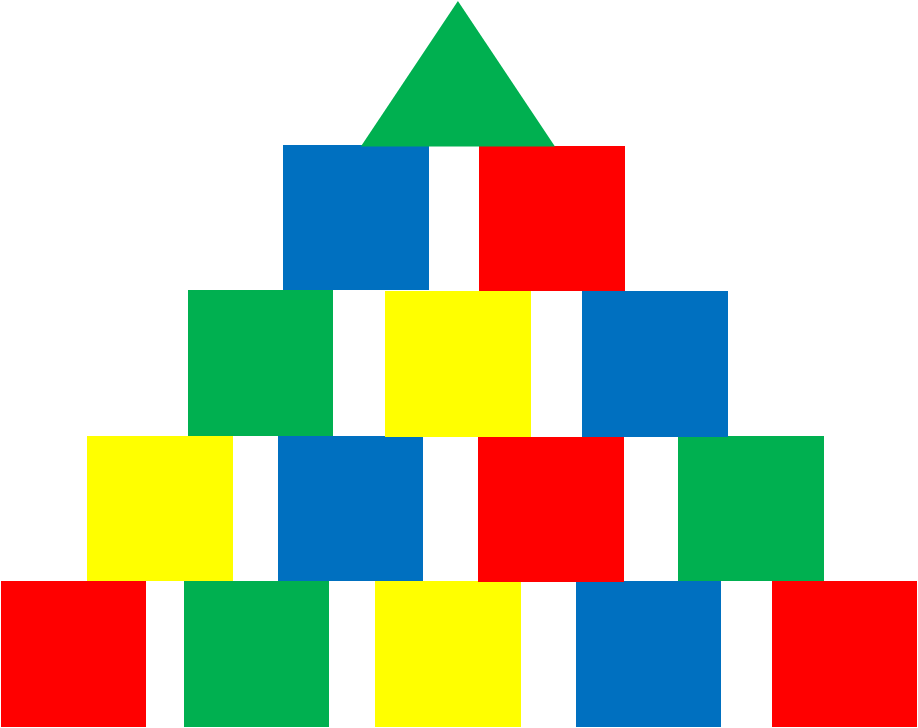
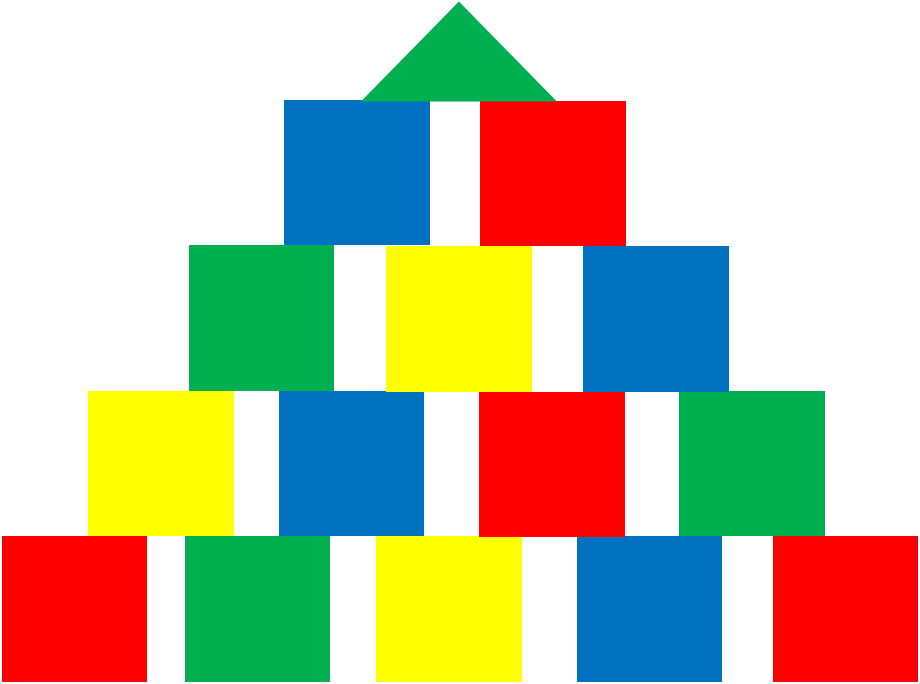
branch for selecting triangles

diff --git a/src/moving/src/move_arm.py b/src/moving/src/move_arm.py
@@ -131,16 +131,16 @@ class move_arm_node:
         final_list=flattened_blocks
 
         #pose_list,shape_list,color_list
-        poses_colors_shape = create_poses_colors_shape_list(final_list)
+        poses_colors_shape_config = create_poses_colors_shape_list(final_list)
         plot_castle_structure(final_list)
         # rospy.logerr(poses_colors_shape)
         #  pose_list, shape_list, color_list
-        return poses_colors_shape
+        return poses_colors_shape_config
 
     
     def execute_all(self):
     # Use from_blue_print2 to get poses, shapes, and colors
-        self.poses_shapes_colors = self.from_blue_print()
+        self.poses_shapes_colors_config = self.from_blue_print()
         rospy.loginfo('Entering main loop...')
 
         # Prepare the robot arm and gripper
@@ -148,8 +148,8 @@ class move_arm_node:
         self.drop()
 
     # Iterate over the list of poses, shapes, and colors
-        for item in self.poses_shapes_colors:
-            pose, shape, color, _ = item  # Unpack the tuple
+        for item in self.poses_shapes_colors_config:
+            pose, shape, color, config = item  # Unpack the tuple
 
             grabbed = False
             while not grabbed:
@@ -157,13 +157,37 @@ class move_arm_node:
                 ################################### 
                 target_pose = self.look_around(color=color, shape=shape)
                 self.drop()
-                self.pickup_from_above(target_pose)
+                self.pickup_from_above(target_pose) #picks up the object and returns to base position
                 # rospy.sleep(.1)
 
                 # if grabbed, return True, then exit while loop to execute drop_bloc
                 grabbed = self.check_closure()
                 # rospy.sleep(.1)
                 ##################################
+            
+            # We have to perform these extra steps for objects of "extra" configuration
+            # "extra" includes triangular objects and rectangular objects that are placed vertically
+            # The reason is that the camera sees the object from top view, while blueprint sees it from the front view
+            # These extra steps allow the user to adjust the object manually to be received by the amr properly.
+            
+            if config == 'extra':
+                self.base_position() #Just for safety start at base position
+                self.base_ground_position() #Lower the gripper to where the object needs to be dropped (the table)
+                self.drop() #open the gripper to drop this object
+
+                self.base_position() #go back to base position
+
+                #At this point, the user will take the object and manually change its orientation to vertical ('upright mode')
+                rospy.sleep(5)
+                
+                #Now the camera will look for the object from the base position and return its pose
+                #color is not important here since there will be only one object in the view
+                find_pose = get_target_pose(color = color, shape = None) 
+                find_pose_copy = deepcopy(find_pose) 
+
+                #Now pick up the object and return to base position
+                self.pickup_from_above(find_pose_copy)
+
             if target_pose !=None:
                 self.drop_goal(pose)
 
@@ -177,7 +201,13 @@ class move_arm_node:
 
         rospy.loginfo('Exiting main loop...')
     
+    def drop_try(self):
+        self.base_position() #Just for safety start at base position
+        self.base_ground_position() #Lower the gripper to where the object needs to be dropped (the table)
+        self.drop() #open the gripper to drop this object
 
+        self.base_position() #go back to base position
+    
     def look_around(self, color : str = None, shape : str = None):
         target_pose = None
         angle = [1,2,3,4,4,3,2,1]
@@ -240,7 +270,13 @@ class move_arm_node:
         self.arm.clear_pose_targets()
         self.target_pose_base = self.arm.get_current_pose()
 
-        # rospy.sleep(.1)
+    def base_ground_position(self):
+
+        self.arm.set_pose_target([0.250, 0, self.desk_height, 0, 1.57, 0])
+        self.arm.go()
+        self.arm.stop()
+        self.arm.clear_pose_targets()
+        self.target_pose_base = self.arm.get_current_pose()
     
 
     def actions_dict(self):
@@ -251,6 +287,7 @@ class move_arm_node:
                           'sleep' : self.sleep,
                           'RRTpickup' : self.pickup_by_rrt,
                           'drop_goal':self.drop_goal,
+                          'drop_try' : self.drop_try,
                           'pickup_from_above':self.pickup_from_above,
                           'constraints_add' : self.constraints_add,
                           'execute_all':self.execute_all,
@@ -328,7 +365,7 @@ class move_arm_node:
             # rospy.sleep(.1)
 
             # Step 2: Place gripper above target
-            target_pose = self.rotate_pose(target_pose, np.pi/2)
+            target_pose = self.rotate_pose(target_pose, np.pi/2) #This changes the yaw angle by 90 degrees
             target_pose.position.z += self.desk_height + self.pickup_offset
             self.arm.set_joint_value_target(target_pose, True)
             self.arm.go(wait=True)
@@ -470,7 +507,8 @@ class move_arm_node:
         return True  
 
     
-    def drop_goal(self, target_pose):
+    def drop_goal(self, target_pose : Pose):
+
         max_attempts = 3  
         attempt = 0
         found_plan = None  

diff --git a/src/vision/src/color_extraction.py b/src/vision/src/color_extraction.py
@@ -97,21 +97,44 @@ def find_object(image, display=False, publish=False, print_res=False):
             if cv2.contourArea(cntr) >= min_area:
                 found_object = dict()
 
-                xc, yc, w, h = cv2.boundingRect(cntr)
-                xc = xc + w//2
-                yc = yc + h//2
+                epsilon = .018 * cv2.arcLength(cntr, True) #play around with this value- .018 on the blueprint side
+                approx = cv2.approxPolyDP(cntr, epsilon, True) #approx is a list of vertices of detected object
+                #length=len(approx)
+                #print(length)
 
-                found_object['center'] = (xc,yc)
+                if len(approx) == 4: #4 vertices = quadrilateral
+                    xc, yc, w, h = cv2.boundingRect(cntr)
+                    xc = xc + w//2
+                    yc = yc + h//2
 
-                if print_res:
-                    print('Found {} object at ({}, {})'.format(color['name'], xc, yc))
+                    found_object['center'] = (xc,yc)
 
-                rect : cv2.RotatedRect = cv2.minAreaRect(cntr)
-                box = cv2.boxPoints(rect)
-                box = np.int0(box)
-                angle, bloc_shape = get_orientation_and_shape(box, result)
-                found_object['yaw'] = angle
-                found_object['shape'] = bloc_shape
+                    if print_res:
+                        print('Found {} object at ({}, {})'.format(color['name'], xc, yc))
+
+                    rect : cv2.RotatedRect = cv2.minAreaRect(cntr)
+                    box = cv2.boxPoints(rect)
+                    box = np.int0(box)
+                    angle, bloc_shape = get_orientation_and_shape(box, result)
+                    found_object['yaw'] = angle
+                    found_object['shape'] = bloc_shape
+
+                elif len(approx)== 3: #3 vertices = triangle
+                    #calculating centroid, base and height of triangle
+                    (xc,yc), _, _ = find_triangle_details(approx)
+                    #_, _, w, h = cv2.boundingRect(cntr) #don't really need this
+
+                    found_object['center'] = (xc, yc)
+
+                    if print_res:
+                        print('Found {} object at ({}, {})'.format(color['name'], xc, yc))
+
+                    rect : cv2.RotatedRect = cv2.minAreaRect(cntr)
+                    box = cv2.boxPoints(rect)
+                    box = np.int0(box)
+                    angle, _ = get_orientation_and_shape(box, result)
+                    found_object['yaw'] = angle
+                    found_object['shape'] = 'triangle'
 
                 if display or publish:
                     # Traces a rectangle around each "object":
@@ -178,6 +201,34 @@ def get_orientation_and_shape(box, img=None):
         angle -= np.pi
 
     return angle, bloc_shape
+
+
+def find_triangle_details(approx): #This functions takes the vertices of a traingle and calculates centroid, base and height
+    # Extract vertices and treat the coordinates as (x, z)
+    x1, z1 = approx[0][0]
+    x2, z2 = approx[1][0]
+    x3, z3 = approx[2][0]
+    
+    # Calculate the centroid (CoM)
+    G_x = (x1 + x2 + x3) / 3
+    G_z = (z1 + z2 + z3) / 3
+    
+    # Use np.linalg.norm to calculate the distances (sides of the triangle)
+    side1 = np.linalg.norm(np.array([x1, z1]) - np.array([x2, z2]))
+    side2 = np.linalg.norm(np.array([x2, z2]) - np.array([x3, z3]))
+    side3 = np.linalg.norm(np.array([x3, z3]) - np.array([x1, z1]))
+    
+    # Base is the longest of the three sides
+    base = max(side1, side2, side3)
+    
+    # Use Heron's formula to find the area of the triangle
+    s = (side1 + side2 + side3) / 2  # semi-perimeter
+    area = np.sqrt(s * (s - side1) * (s - side2) * (s - side3))
+    
+    # Height can be found from the area formula: Area = 0.5 * base * height
+    height = (2 * area) / base
+    
+    return (G_x, G_z), base, height
 
 
 def draw_axis(img, p_, q_, color, scale):

diff --git a/src/moving/src/blueprint_to_coordinates.py b/src/moving/src/blueprint_to_coordinates.py
@@ -121,7 +121,8 @@ def find_object(image_path, display=True, publish=False, print_res=False):
                     #if print_res:
                         #print('Found {} object at ({}, {})'.format(color['name'], xc, zc))
 
-                    rect = cv2.minAreaRect(cntr)
+                    #rect = cv2.minAreaRect(cntr)
+                    rect : cv2.RotatedRect = cv2.minAreaRect(cntr)
                     box = cv2.boxPoints(rect)
                     box = np.int0(box)
                     angle = get_orientation(box, result) #don't really need this- just for visual
@@ -135,11 +136,15 @@ def find_object(image_path, display=True, publish=False, print_res=False):
                     (xc,zc), _, _ = find_triangle_details(approx)
                     _, _, w, h = cv2.boundingRect(cntr)
 
+                    # Draw the centroid on the image
+                    cv2.circle(result, (int(xc), int(zc)), 5, (0, 0, 0), -1)
+
                     found_object['center'] = (xc, zc)
                     found_object['width'] = w
                     found_object['height'] = h
 
-                    rect = cv2.minAreaRect(cntr)
+                    #rect = cv2.minAreaRect(cntr)
+                    rect : cv2.RotatedRect = cv2.minAreaRect(cntr)
                     box = cv2.boxPoints(rect)
                     box = np.int0(box)
                     angle = get_orientation(box, result)
@@ -340,7 +345,7 @@ def build_castle(found_objects, pixel_to_m, y_offset, x_offset=0.155,z_offset=0,
                 obj['config'] = 'normal'
             else:
                 obj['config'] = 'extra' #represents object standing vertically
-        else: 
+        elif obj_shape == 'triangle':
             obj['config'] = 'extra'
         
         # This is the orientation of the gripper when it is dropped 
@@ -599,7 +604,7 @@ if __name__ == '__main__':
     #print(found_object_results)
     
     #Srting the blocks based on x and z coordinates- also adding y-coordinate
-    sequential_blocks = build_castle(found_object_results,pixel_to_m=.029/146, y_offset=0.155)
+    sequential_blocks = build_castle(found_object_results,pixel_to_m=0.029/146, y_offset=0.155)
     #sequential_blocks = build_castle(found_object_results,pixel_to_m=.029/144, y_offset=0.155)
 
     
@@ -616,7 +621,7 @@ if __name__ == '__main__':
     #Final List
     #final_list=flattened_blocks + flattened_blocks2 + flattened_blocks3
     final_list=flattened_blocks
-    #print(final_list)
+    print(final_list)
 
     #plot the multi-layered castle structure
     plot_castle_structure(final_list)
